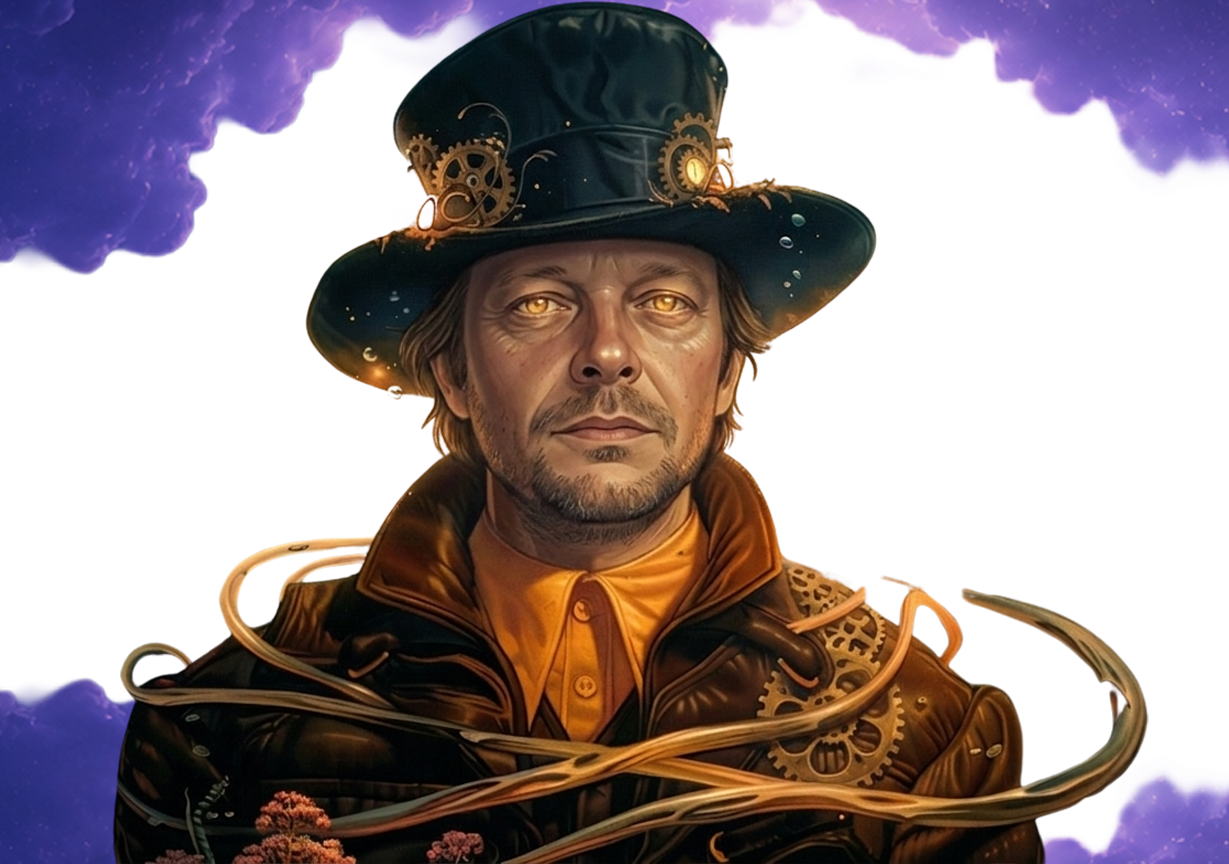
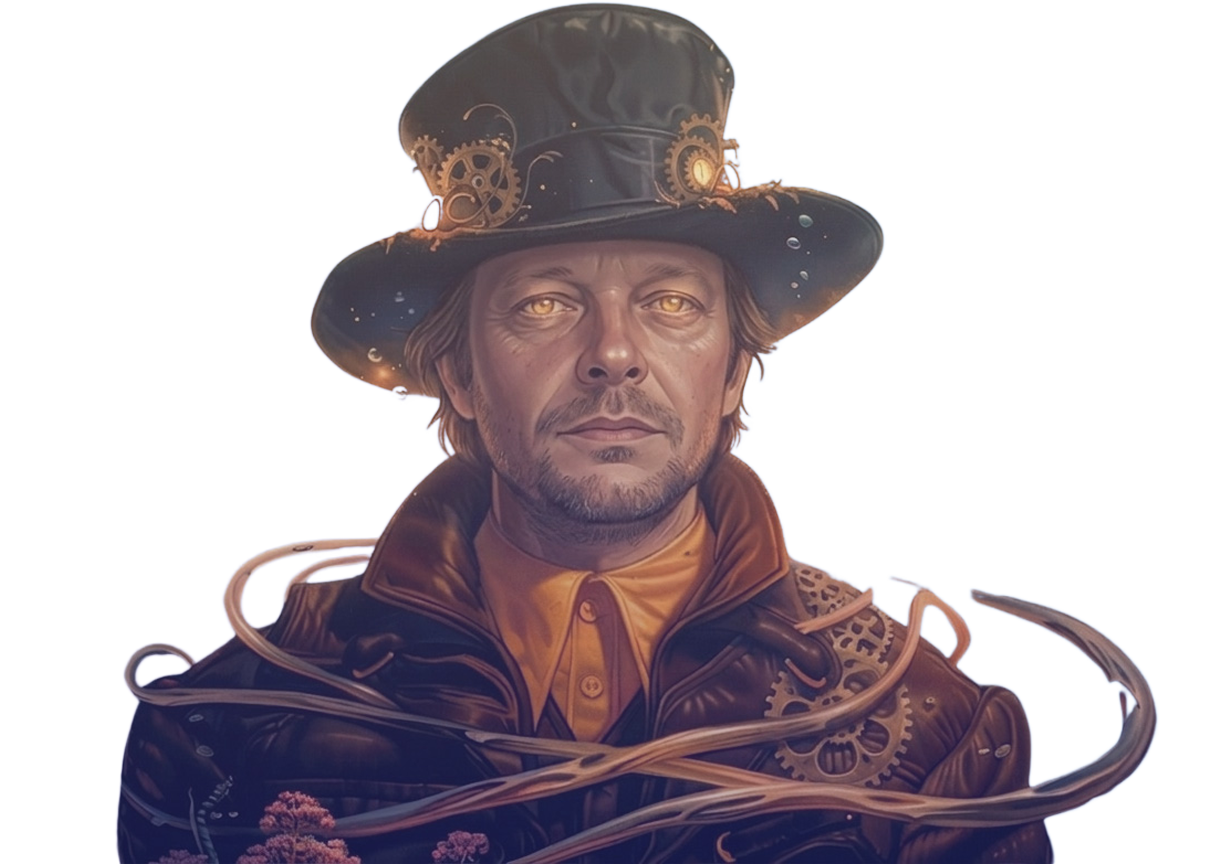
feat: 12 artist portraits; perf: fixed-layer night-sky bg + viewport-gated parallax; responsive mobile polish

diff --git a/src/app/authors/page.tsx b/src/app/authors/page.tsx
@@ -50,7 +50,8 @@ const authors: Author[] = [
       "Mazze is a DJ and producer from Szczecin and the founder of Magic Stories Records — the steady hand behind its organic, deep and progressive sound.",
       "His productions have travelled far beyond Poland, landing on labels like Magician on Duty and Where The Heart Is and into sets at Burning Man and All Day I Dream, championed by the likes of Nick Warren and David Hohme. MSR is the home he built for that story to keep unfolding, release after release.",
     ],
-    portrait: "/images/artists/mazze.jpg",
+    portrait: "/images/artists/dj-mazze.png",
+    cutout: true,
     links: { instagram: "#", spotify: "#", soundcloud: "#", beatport: "#" },
   },
   {
@@ -75,7 +76,8 @@ const authors: Author[] = [
       "Slaqk — Miguel Lessey from Venezuela — works in the space where house music meets something more organic and weightless.",
       "His Feathers EP brought a light, airy touch to the label: productions that balance a dancefloor pulse against soft, breathing textures.",
     ],
-    portrait: "",
+    portrait: "/images/artists/dj-slaqk.png",
+    cutout: true,
     links: { instagram: "#", spotify: "#", soundcloud: "#", beatport: "#" },
   },
   {
@@ -87,7 +89,8 @@ const authors: Author[] = [
       "Peres is a Silesian DJ and producer, now based in Warsaw — a veteran of progressive and melodic house whose career reaches back to the late 2000s.",
       "Across years on labels like LuPS Records and Mistique Music, and stages shared with Carl Cox, Hernán Cattaneo and John Digweed, he has kept an old-school, deeply melodic instinct. The Mirra EP is his reflective, mirrored chapter for Magic Stories.",
     ],
-    portrait: "",
+    portrait: "/images/artists/dj-peres.png",
+    cutout: true,
     links: { instagram: "#", spotify: "#", soundcloud: "#", beatport: "#" },
   },
   {
@@ -99,7 +102,8 @@ const authors: Author[] = [
       "Mauro Masi is a producer of deep and progressive house with a melodic, organic streak — a regular on labels like Consapevole, 3rd Avenue and The Purr.",
       "His work has drawn support from Hernán Cattaneo and Nick Warren, and he records as half of the duo Newcorp. For Magic Stories he turns that craft toward warm chords and unhurried, golden-hour grooves across the Face EP and ‘Flames’.",
     ],
-    portrait: "",
+    portrait: "/images/artists/mauro-masi.png",
+    cutout: true,
     links: { instagram: "#", spotify: "#", soundcloud: "#", beatport: "#" },
   },
   {
@@ -111,7 +115,8 @@ const authors: Author[] = [
       "Rafa'EL is a DJ, producer and live performer based in Gdynia, Poland, with fourteen years in the electronic scene.",
       "He blends organic textures with melodic house, chasing one thing above all — emotion. That heartfelt instinct runs through ‘Elderose’, his Magic Stories debut, and his ongoing work alongside Mazze.",
     ],
-    portrait: "",
+    portrait: "/images/artists/rafa-el.png",
+    cutout: true,
     links: { instagram: "#", spotify: "#", soundcloud: "#", beatport: "#" },
   },
   {
@@ -123,7 +128,8 @@ const authors: Author[] = [
       "Manu Amon is a DJ, producer, drummer and pianist from Nuremberg, Germany.",
       "That musicianship shows in his electronica — hypnotic melodies and meticulously arranged spaces, as on the Dot Circle EP, each track built for immersion.",
     ],
-    portrait: "",
+    portrait: "/images/artists/manu-amon.png",
+    cutout: true,
     links: { instagram: "#", spotify: "#", soundcloud: "#", beatport: "#" },
   },
   {
@@ -135,7 +141,8 @@ const authors: Author[] = [
       "Adrià Falcó is a Spanish producer from Tarragona, classically trained on piano from the age of five at the Conservatori de Música de Tarragona.",
       "His sound moves between deep, ethnic, progressive and melodic — refined, groove-led and genre-defying, with releases on Déepalma and Café de Anatolia. The Sakura EP is his blossoming, nostalgic chapter for Magic Stories.",
     ],
-    portrait: "",
+    portrait: "/images/artists/adria-falco.png",
+    cutout: true,
     links: { instagram: "#", spotify: "#", soundcloud: "#", beatport: "#" },
   },
   {
@@ -147,7 +154,8 @@ const authors: Author[] = [
       "Our Spaces is a duo from Tricity, Poland — Rafa'EL crafting intricate compositions, Marylin bringing voice, lyrics and violin.",
       "Together they weave captivating, emotive melodies inspired by the spirit of their coastal home, as on the Ordinary Vision EP — the extraordinary found inside the everyday.",
     ],
-    portrait: "",
+    portrait: "/images/artists/our-spaces.png",
+    cutout: true,
     links: { instagram: "#", spotify: "#", soundcloud: "#", beatport: "#" },
   },
   {
@@ -159,7 +167,8 @@ const authors: Author[] = [
       "Miqro is one of the legends of the Polish house scene — a vinyl specialist since the late ’90s who became one of the country's most in-demand house DJs.",
       "A resident and promoter at the legendary AfterParty of Sunrise Festival, with releases reaching as far as Sony BMG Poland, he co-founded the label RANDEWU in 2017. ‘Sleep Alone’ is his sun-soaked, summer-facing chapter for Magic Stories.",
     ],
-    portrait: "",
+    portrait: "/images/artists/dj-miqro.png",
+    cutout: true,
     links: { instagram: "#", spotify: "#", soundcloud: "#", beatport: "#" },
   },
   {
@@ -171,7 +180,8 @@ const authors: Author[] = [
       "Robyn Balliet is a Detroit-born, Los Angeles-based producer and first-string violinist whose sound lives in deep house with progressive undertones — melodic, percussive and emotive.",
       "With releases on labels like 8Bit and Deepalma and stages shared with John Digweed, Sasha and Nora En Pure, she lent her groove to Magic Stories with her remix of Adrià Falcó's ‘Sakura’.",
     ],
-    portrait: "",
+    portrait: "/images/artists/robyn-balliet.png",
+    cutout: true,
     links: { instagram: "#", spotify: "#", soundcloud: "#", beatport: "#" },
   },
   {
@@ -183,7 +193,8 @@ const authors: Author[] = [
       "Enigmatic is a DJ, producer and promoter — a dreamy tastemaker with releases on labels like Bar25, Hoomidaas and Melody of the Soul, and a frequent collaborator of Rafa'EL.",
       "He brought his mesmerizing, melodic touch to Magic Stories with his remix of Mazze's ‘Sagala’.",
     ],
-    portrait: "",
+    portrait: "/images/artists/dj-enigmatic.png",
+    cutout: true,
     links: { instagram: "#", spotify: "#", soundcloud: "#", beatport: "#" },
   },
 ];
@@ -208,16 +219,19 @@ export default function AuthorsPage() {
       className="relative isolate overflow-hidden px-6 pb-24 pt-16 md:px-12 md:pb-32 md:pt-20"
       style={{ background: "linear-gradient(180deg,#15142f 0%,#1b1942 50%,#211d4f 100%)" }}
     >
-      {/* Base fallback: procedural sky (shows if the photo is missing). */}
-      <NightSky />
+      {/* Fixed viewport-sized sky backdrop: own compositor layer →
+          crisp photo + smooth scroll (no background-attachment:fixed jank). */}
+      <div aria-hidden className="fixed inset-0 -z-10 overflow-hidden">
+        <NightSky />
       {/* Real sky photo — drop the file at /public/images/authors-sky.jpg. */}
       <div
         aria-hidden
-        className="absolute inset-0 -z-0 bg-cover bg-center bg-fixed"
+        className="absolute inset-0 -z-0 bg-cover bg-center"
         style={{ backgroundImage: "url('/images/authors-sky.png')" }}
       />
       {/* Gentle darkening for text contrast. */}
       <div aria-hidden className="absolute inset-0 -z-0 bg-[#141230]/25" />
+      </div>
       <div className="relative z-10 mx-auto max-w-7xl">
         {/* Header */}
         <header className="mx-auto max-w-2xl text-center">

diff --git a/src/components/Parallax.tsx b/src/components/Parallax.tsx
@@ -9,8 +9,9 @@ type ParallaxProps = {
   strength?: number; // px of travel across the viewport; keep small + subtle
 };
 
-// Subtle vertical parallax tied to scroll position. Disabled when the user
-// prefers reduced motion.
+// Subtle vertical parallax tied to scroll position. Only does work while the
+// element is on screen (IntersectionObserver-gated) to avoid layout thrash from
+// many instances scrolling at once. Disabled when the user prefers reduced motion.
 export default function Parallax({
   children,
   className = "",
@@ -24,22 +25,37 @@ export default function Parallax({
     if (window.matchMedia("(prefers-reduced-motion: reduce)").matches) return;
 
     let raf = 0;
+    let inView = false;
+
     const update = () => {
       raf = 0;
       const rect = el.getBoundingClientRect();
       const vh = window.innerHeight || 1;
-      // -1 (just below viewport) → 1 (just above); 0 when centered.
-      const progress = (rect.top + rect.height / 2 - vh / 2) / (vh / 2 + rect.height / 2);
+      const progress =
+        (rect.top + rect.height / 2 - vh / 2) / (vh / 2 + rect.height / 2);
       const clamped = Math.max(-1, Math.min(1, progress));
       el.style.transform = `translate3d(0, ${(-clamped * strength).toFixed(1)}px, 0)`;
     };
+
     const onScroll = () => {
-      if (!raf) raf = requestAnimationFrame(update);
+      if (inView && !raf) raf = requestAnimationFrame(update);
     };
-    update();
+
+    // Only listen + promote to its own layer while visible.
+    const io = new IntersectionObserver(
+      ([entry]) => {
+        inView = entry.isIntersecting;
+        el.style.willChange = inView ? "transform" : "auto";
+        if (inView) update();
+      },
+      { rootMargin: "120px 0px" },
+    );
+    io.observe(el);
+
     window.addEventListener("scroll", onScroll, { passive: true });
     window.addEventListener("resize", onScroll, { passive: true });
     return () => {
+      io.disconnect();
       window.removeEventListener("scroll", onScroll);
       window.removeEventListener("resize", onScroll);
       if (raf) cancelAnimationFrame(raf);
@@ -47,7 +63,7 @@ export default function Parallax({
   }, [strength]);
 
   return (
-    <div ref={ref} className={className} style={{ willChange: "transform" }}>
+    <div ref={ref} className={className}>
       {children}
     </div>
   );

diff --git a/src/components/Hero.tsx b/src/components/Hero.tsx
@@ -26,7 +26,7 @@ export default function Hero() {
   }, []);
 
   return (
-    <section className="relative flex min-h-screen w-full flex-col items-center justify-end overflow-hidden px-6 pb-12 pt-28 text-center text-cream md:pb-20">
+    <section className="relative flex min-h-[100svh] w-full flex-col items-center justify-end overflow-hidden px-6 pb-12 pt-28 text-center text-cream md:pb-20">
       {/* Fullscreen looping background video */}
       <video
         ref={videoRef}
@@ -62,17 +62,17 @@ export default function Hero() {
 
       {/* Wordmark sits above the emblem (the glowing book in the video). */}
       <div className="absolute inset-x-0 top-24 z-10 flex justify-center px-6 md:top-28">
-        <div className="animate-fade-rise flex items-center gap-4">
+        <div className="animate-fade-rise flex items-center gap-2 sm:gap-4">
           <span
             aria-hidden
-            className="h-px w-10 bg-gradient-to-r from-transparent to-warm/60 md:w-16"
+            className="h-px w-6 bg-gradient-to-r from-transparent to-warm/60 sm:w-10 md:w-16"
           />
-          <p className="font-serif text-sm uppercase tracking-[0.34em] text-cream/85 md:text-base [text-shadow:_0_1px_3px_rgba(8,7,24,0.65),_0_1px_16px_rgba(8,7,24,0.6)]">
+          <p className="whitespace-nowrap font-serif text-[0.62rem] uppercase tracking-[0.2em] text-cream/85 sm:text-sm sm:tracking-[0.34em] md:text-base [text-shadow:_0_1px_3px_rgba(8,7,24,0.65),_0_1px_16px_rgba(8,7,24,0.6)]">
             Magic Stories Records
           </p>
           <span
             aria-hidden
-            className="h-px w-10 bg-gradient-to-l from-transparent to-warm/60 md:w-16"
+            className="h-px w-6 bg-gradient-to-l from-transparent to-warm/60 sm:w-10 md:w-16"
           />
         </div>
       </div>

diff --git a/src/app/stories/page.tsx b/src/app/stories/page.tsx
@@ -14,16 +14,19 @@ export default function StoriesPage() {
       className="relative isolate overflow-hidden px-6 pb-24 pt-16 md:px-12 md:pb-32 md:pt-20"
       style={{ background: "linear-gradient(180deg,#15142f 0%,#1b1942 50%,#211d4f 100%)" }}
     >
-      {/* Base fallback: procedural sky (shows if the photo is missing). */}
-      <NightSky />
+      {/* Fixed viewport-sized sky backdrop: own compositor layer →
+          crisp photo + smooth scroll (no background-attachment:fixed jank). */}
+      <div aria-hidden className="fixed inset-0 -z-10 overflow-hidden">
+        <NightSky />
       {/* Real sky photo — shared with the Authors section. */}
       <div
         aria-hidden
-        className="absolute inset-0 -z-0 bg-cover bg-center bg-fixed"
+        className="absolute inset-0 -z-0 bg-cover bg-center"
         style={{ backgroundImage: "url('/images/authors-sky.png')" }}
       />
       {/* Gentle darkening for text contrast. */}
       <div aria-hidden className="absolute inset-0 -z-0 bg-[#141230]/25" />
+      </div>
 
       <div className="relative z-10 mx-auto max-w-7xl">
         <header className="mx-auto max-w-2xl text-center">